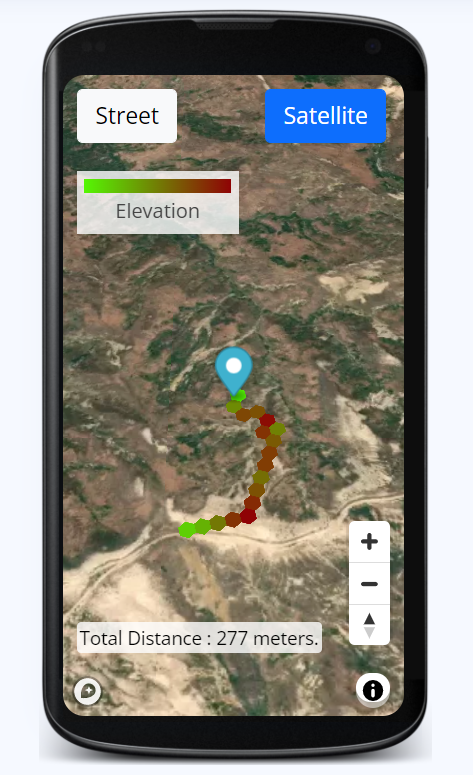
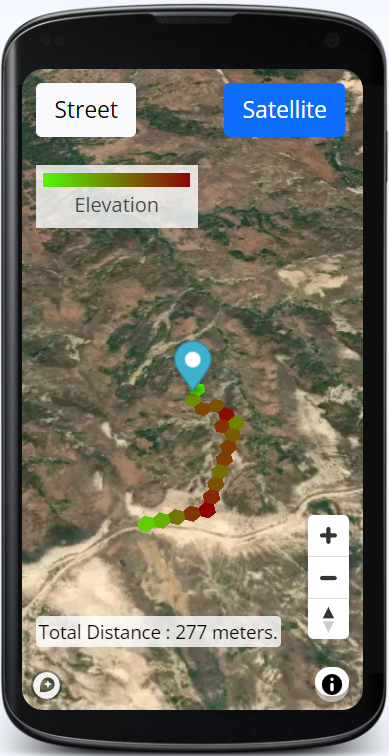
Intial commit

diff --git a/User_Interface/Frontend/README.md b/User_Interface/Frontend/README.md
@@ -8,9 +8,9 @@ This demo uses API build using [TigerGraph RESTAPP](https://docs.tigergraph.com/
 
 **Preview on [demo.electronbridge.com](https://demo.electronbridge.com/os/TigerGraphEB/)**
 
-1. Discover trail to nearest road in hilly area.
-<br><img src="https://github.com/ElectronBridge/Earth-Terrain-Data-Graph/blob/main/User_Interface/Frontend/assets/img/screenshots/Screenshot1.png" width="180px" height="210px"/>
-<img src="https://github.com/ElectronBridge/Earth-Terrain-Data-Graph/blob/main/User_Interface/Frontend/assets/img/screenshots/Screenshot2.png" width="180px" height="210px"/>
+1. Discover trail to nearest road in hilly area.<br>
+<img src="https://github.com/ElectronBridge/Earth-Terrain-Data-Graph/blob/main/User_Interface/Frontend/assets/img/screenshots/Screenshot1.png" width="200px" height="250px"/>
+<img src="https://github.com/ElectronBridge/Earth-Terrain-Data-Graph/blob/main/User_Interface/Frontend/assets/img/screenshots/Screenshot2.png" width="200px" height="250px"/>
 2. Road or Pipeline layout path planning.<br><img src="https://github.com/ElectronBridge/Earth-Terrain-Data-Graph/blob/main/User_Interface/Frontend/assets/img/screenshots/Screenshot3.png" width="450px">
 
 #### To start setting up the project
